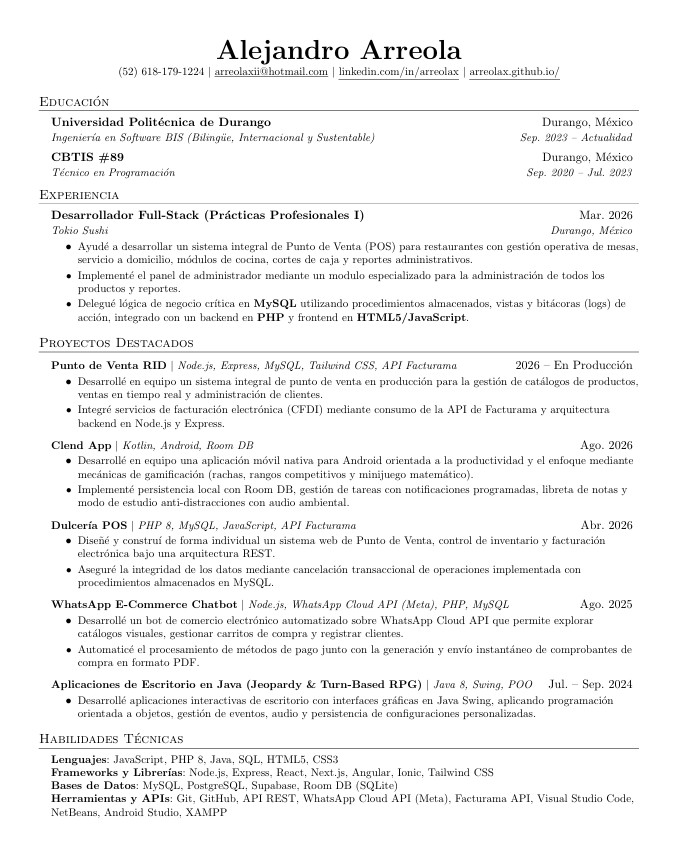
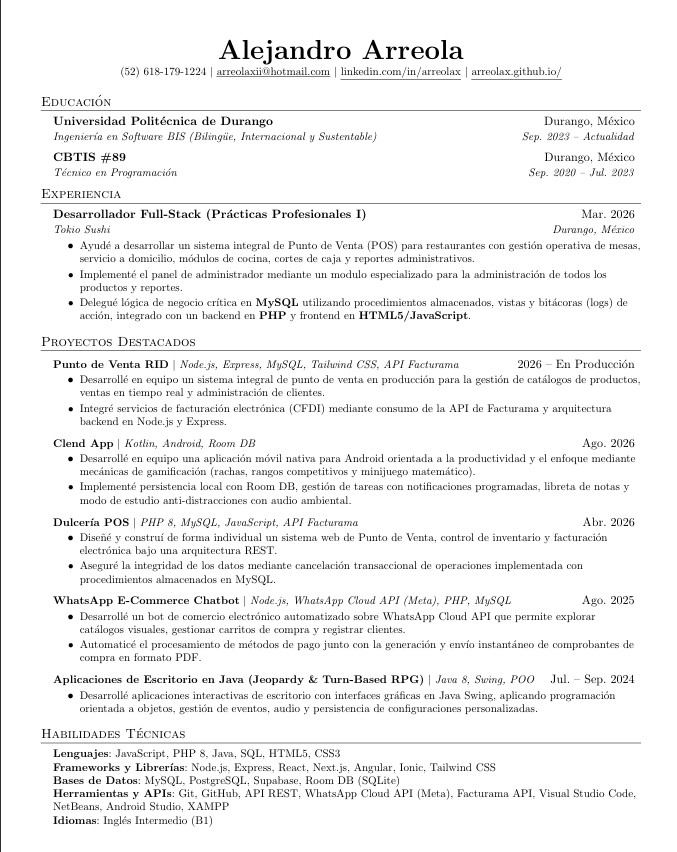
Fixes

Changed region(s): [[0.0621, 0.0915, 0.963, 0.9765], [0.1864, 0.0305, 0.8388, 0.0915], [0.7766, 0.1221, 0.932, 0.2136]]

diff --git a/index.html b/index.html
@@ -730,7 +730,7 @@
 
             <a href="./src/docs/Arreolax_cv_nov_2026.pdf" download="Arreolax_cv_nov_2026.pdf" target="_blank"
                 class="inline-block mt-5 bg-purple-600 hover:bg-purple-500 text-white font-semibold px-6 py-3 rounded-lg transition-all shadow-lg shadow-sky-500/20">
-                Ver PDF
+                Descargar PDF
             </a>
         </div>
     </div>
